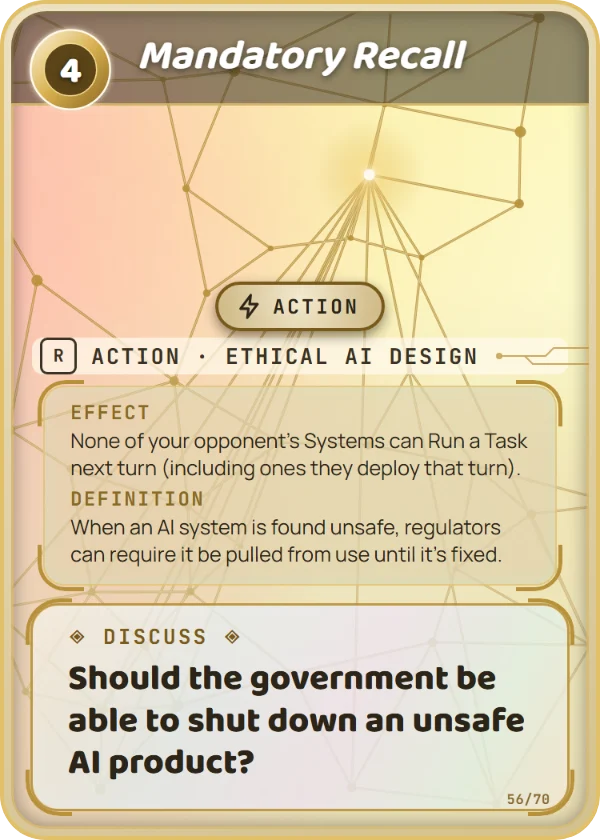
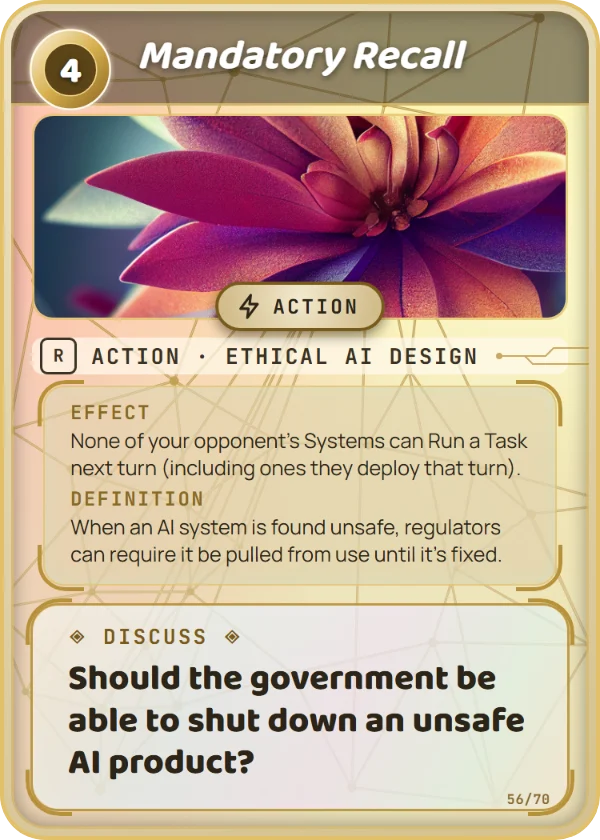
Add artwork to cards 56-70; every card now has art
Mandatory Recall, Informed Consent, Red Teaming, Expired, AI in Daily
Life, Deepfake, Job Disruption, Environmental Footprint, Data Privacy
Trade-off, Regulation Debate, Digital Divide, Cognitive Offload, Data
Center, Obsolete, and Alignment. Rebuilt proofs and refreshed card
images for the website. The source artwork stays local in design/icons/.

Changed region(s): [[0.03, 0.1238, 0.96, 0.4024]]

diff --git a/design/frame-v2/proof-mandatory-recall-ethics.html b/design/frame-v2/proof-mandatory-recall-ethics.html
@@ -132,7 +132,7 @@
 <body><div class="stage"><div class="v2 full gold-net nostats" style="--edge:#e2c06a;--outerA:#efe5cb;--outerB:#d3c292;--body1:#f8f2e2;--body2:#e1d3ae;--head:#3a3224;--panel1:rgba(255,255,255,.72);--panel2:rgba(228,214,176,.85);--label:#8a6a22;--bracket:#b8913a;--circuit:#b8913a;--statA:#f4ead0;--statB:#cdb680;--statBorder:#7a5a1c;--ledgeA:#cdb884;--ledgeB:#a88f55;--discussBg:linear-gradient(115deg,#f4eedf 0%,#e2ecf4 32%,#efe3f6 58%,#e1f2ea 82%,#f4e7d6 100%);--discussBorder:rgba(184,145,58,.9);--discussBracket:#b8913a;--discussTag:#7a5a1c;--discussInk:#2b2418;--discussShadow:none;--ink:#2b2418;--typeInk:#3a3224;--headInk:#ffffff;--statInk:#2b2418;--typeGlass:rgba(255,250,236,.72);--iconHalo:rgba(255,255,255,.75);--art:url('../backgrounds/selected/ethics.jpg')">
   <div class="v2-body">
     <div class="v2-art"></div>
-    
+    <div class="v2-icon photo"><img src="../icons/mandatory-recall.png" alt=""></div>
     <header class="v2-head"><h2>Mandatory Recall</h2></header>
     <div class="v2-gem round"><svg viewBox="0 0 140 140" width="140" height="140" aria-hidden="true"><defs>
     <linearGradient id="gAethics" x1="0" y1="0" x2="1" y2="1"><stop offset="0" stop-color="#fff7dc"/><stop offset=".5" stop-color="#d8b04f"/><stop offset="1" stop-color="#8a631e"/></linearGradient>

diff --git a/design/frame-v2/proof-environmental-footprint-impacts.html b/design/frame-v2/proof-environmental-footprint-impacts.html
@@ -132,7 +132,7 @@
 <body><div class="stage"><div class="v2 nostats" style="--edge:#ff7c5e;--outerA:#3f0f0a;--outerB:#230604;--body1:#7c2619;--body2:#3f0f0a;--head:#380c08;--panel1:rgba(240,132,108,.42);--panel2:rgba(116,28,18,.84);--label:#ffbba6;--bracket:#ffa089;--circuit:#ff7c5e;--statA:#8e2c1c;--statB:#3c0e09;--statBorder:#ffe2d8;--ledgeA:#8a2a1b;--ledgeB:#4a120b;--discussBg:linear-gradient(115deg,#e0998a 0%,#d4a3c6 32%,#eeb08c 58%,#c697d4 82%,#e59c9e 100%);--discussBorder:rgba(255,236,228,.95);--discussBracket:#ffece4;--discussTag:#fff0ea;--discussInk:#ffffff;--discussShadow:0 2px 3px rgba(18,28,70,.75), 0 0 14px rgba(18,28,70,.35);--ink:#ffffff;--typeInk:#ffffff;--headInk:#ffffff;--statInk:#ffffff;--art:url('../backgrounds/selected/impacts.jpg')">
   <div class="v2-body">
     <div class="v2-art"></div>
-    
+    <div class="v2-icon photo"><img src="../icons/environmental-footprint.png" alt=""></div>
     <header class="v2-head"><h2>Environmental Footprint</h2></header>
     <div class="v2-gem diamond"><svg viewBox="0 0 140 140" width="140" height="140" aria-hidden="true"><defs>
     <linearGradient id="gAimpacts" x1="0" y1="0" x2="1" y2="1"><stop offset="0" stop-color="#ffc6ae"/><stop offset=".5" stop-color="#d2482c"/><stop offset="1" stop-color="#58120b"/></linearGradient>

diff --git a/design/frame-v2/proof-informed-consent-ethics.html b/design/frame-v2/proof-informed-consent-ethics.html
@@ -132,7 +132,7 @@
 <body><div class="stage"><div class="v2 tall-tray" style="--edge:#e2c06a;--outerA:#efe5cb;--outerB:#d3c292;--body1:#f8f2e2;--body2:#e1d3ae;--head:#3a3224;--panel1:rgba(255,255,255,.72);--panel2:rgba(228,214,176,.85);--label:#8a6a22;--bracket:#b8913a;--circuit:#b8913a;--statA:#f4ead0;--statB:#cdb680;--statBorder:#7a5a1c;--ledgeA:#cdb884;--ledgeB:#a88f55;--discussBg:linear-gradient(115deg,#f4eedf 0%,#e2ecf4 32%,#efe3f6 58%,#e1f2ea 82%,#f4e7d6 100%);--discussBorder:rgba(184,145,58,.9);--discussBracket:#b8913a;--discussTag:#7a5a1c;--discussInk:#2b2418;--discussShadow:none;--ink:#2b2418;--typeInk:#3a3224;--headInk:#ffffff;--statInk:#2b2418;--typeGlass:rgba(255,250,236,.72);--iconHalo:rgba(255,255,255,.75);--art:url('../backgrounds/selected/ethics.jpg')">
   <div class="v2-body">
     <div class="v2-art"></div>
-    
+    <div class="v2-icon photo"><img src="../icons/informed-consent.png" alt=""></div>
     <header class="v2-head"><h2>Informed Consent</h2></header>
     <div class="v2-gem diamond"><svg viewBox="0 0 140 140" width="140" height="140" aria-hidden="true"><defs>
     <linearGradient id="gAethics" x1="0" y1="0" x2="1" y2="1"><stop offset="0" stop-color="#fff7dc"/><stop offset=".5" stop-color="#d8b04f"/><stop offset="1" stop-color="#8a631e"/></linearGradient>

diff --git a/design/frame-v2/proof-data-privacy-trade-off-impacts.html b/design/frame-v2/proof-data-privacy-trade-off-impacts.html
@@ -132,7 +132,7 @@
 <body><div class="stage"><div class="v2" style="--edge:#ff7c5e;--outerA:#3f0f0a;--outerB:#230604;--body1:#7c2619;--body2:#3f0f0a;--head:#380c08;--panel1:rgba(240,132,108,.42);--panel2:rgba(116,28,18,.84);--label:#ffbba6;--bracket:#ffa089;--circuit:#ff7c5e;--statA:#8e2c1c;--statB:#3c0e09;--statBorder:#ffe2d8;--ledgeA:#8a2a1b;--ledgeB:#4a120b;--discussBg:linear-gradient(115deg,#e0998a 0%,#d4a3c6 32%,#eeb08c 58%,#c697d4 82%,#e59c9e 100%);--discussBorder:rgba(255,236,228,.95);--discussBracket:#ffece4;--discussTag:#fff0ea;--discussInk:#ffffff;--discussShadow:0 2px 3px rgba(18,28,70,.75), 0 0 14px rgba(18,28,70,.35);--ink:#ffffff;--typeInk:#ffffff;--headInk:#ffffff;--statInk:#ffffff;--art:url('../backgrounds/selected/impacts.jpg')">
   <div class="v2-body">
     <div class="v2-art"></div>
-    
+    <div class="v2-icon photo"><img src="../icons/data-privacy-trade-off.png" alt=""></div>
     <header class="v2-head"><h2>Data Privacy Trade-off</h2></header>
     <div class="v2-gem diamond"><svg viewBox="0 0 140 140" width="140" height="140" aria-hidden="true"><defs>
     <linearGradient id="gAimpacts" x1="0" y1="0" x2="1" y2="1"><stop offset="0" stop-color="#ffc6ae"/><stop offset=".5" stop-color="#d2482c"/><stop offset="1" stop-color="#58120b"/></linearGradient>

diff --git a/design/frame-v2/proof-cognitive-offload-impacts.html b/design/frame-v2/proof-cognitive-offload-impacts.html
@@ -132,7 +132,7 @@
 <body><div class="stage"><div class="v2 nostats" style="--edge:#ff7c5e;--outerA:#3f0f0a;--outerB:#230604;--body1:#7c2619;--body2:#3f0f0a;--head:#380c08;--panel1:rgba(240,132,108,.42);--panel2:rgba(116,28,18,.84);--label:#ffbba6;--bracket:#ffa089;--circuit:#ff7c5e;--statA:#8e2c1c;--statB:#3c0e09;--statBorder:#ffe2d8;--ledgeA:#8a2a1b;--ledgeB:#4a120b;--discussBg:linear-gradient(115deg,#e0998a 0%,#d4a3c6 32%,#eeb08c 58%,#c697d4 82%,#e59c9e 100%);--discussBorder:rgba(255,236,228,.95);--discussBracket:#ffece4;--discussTag:#fff0ea;--discussInk:#ffffff;--discussShadow:0 2px 3px rgba(18,28,70,.75), 0 0 14px rgba(18,28,70,.35);--ink:#ffffff;--typeInk:#ffffff;--headInk:#ffffff;--statInk:#ffffff;--art:url('../backgrounds/selected/impacts.jpg')">
   <div class="v2-body">
     <div class="v2-art"></div>
-    
+    <div class="v2-icon photo"><img src="../icons/cognitive-offload.png" alt=""></div>
     <header class="v2-head"><h2>Cognitive Offload</h2></header>
     <div class="v2-gem diamond"><svg viewBox="0 0 140 140" width="140" height="140" aria-hidden="true"><defs>
     <linearGradient id="gAimpacts" x1="0" y1="0" x2="1" y2="1"><stop offset="0" stop-color="#ffc6ae"/><stop offset=".5" stop-color="#d2482c"/><stop offset="1" stop-color="#58120b"/></linearGradient>

diff --git a/design/frame-v2/proof-regulation-debate-impacts.html b/design/frame-v2/proof-regulation-debate-impacts.html
@@ -132,7 +132,7 @@
 <body><div class="stage"><div class="v2 nostats" style="--edge:#ff7c5e;--outerA:#3f0f0a;--outerB:#230604;--body1:#7c2619;--body2:#3f0f0a;--head:#380c08;--panel1:rgba(240,132,108,.42);--panel2:rgba(116,28,18,.84);--label:#ffbba6;--bracket:#ffa089;--circuit:#ff7c5e;--statA:#8e2c1c;--statB:#3c0e09;--statBorder:#ffe2d8;--ledgeA:#8a2a1b;--ledgeB:#4a120b;--discussBg:linear-gradient(115deg,#e0998a 0%,#d4a3c6 32%,#eeb08c 58%,#c697d4 82%,#e59c9e 100%);--discussBorder:rgba(255,236,228,.95);--discussBracket:#ffece4;--discussTag:#fff0ea;--discussInk:#ffffff;--discussShadow:0 2px 3px rgba(18,28,70,.75), 0 0 14px rgba(18,28,70,.35);--ink:#ffffff;--typeInk:#ffffff;--headInk:#ffffff;--statInk:#ffffff;--art:url('../backgrounds/selected/impacts.jpg')">
   <div class="v2-body">
     <div class="v2-art"></div>
-    
+    <div class="v2-icon photo"><img src="../icons/regulation-debate.png" alt=""></div>
     <header class="v2-head"><h2>Regulation Debate</h2></header>
     <div class="v2-gem diamond"><svg viewBox="0 0 140 140" width="140" height="140" aria-hidden="true"><defs>
     <linearGradient id="gAimpacts" x1="0" y1="0" x2="1" y2="1"><stop offset="0" stop-color="#ffc6ae"/><stop offset=".5" stop-color="#d2482c"/><stop offset="1" stop-color="#58120b"/></linearGradient>

diff --git a/design/frame-v2/proof-digital-divide-impacts.html b/design/frame-v2/proof-digital-divide-impacts.html
@@ -132,7 +132,7 @@
 <body><div class="stage"><div class="v2 full tall-tray" style="--edge:#ff7c5e;--outerA:#3f0f0a;--outerB:#230604;--body1:#7c2619;--body2:#3f0f0a;--head:#380c08;--panel1:rgba(240,132,108,.42);--panel2:rgba(116,28,18,.84);--label:#ffbba6;--bracket:#ffa089;--circuit:#ff7c5e;--statA:#8e2c1c;--statB:#3c0e09;--statBorder:#ffe2d8;--ledgeA:#8a2a1b;--ledgeB:#4a120b;--discussBg:linear-gradient(115deg,#e0998a 0%,#d4a3c6 32%,#eeb08c 58%,#c697d4 82%,#e59c9e 100%);--discussBorder:rgba(255,236,228,.95);--discussBracket:#ffece4;--discussTag:#fff0ea;--discussInk:#ffffff;--discussShadow:0 2px 3px rgba(18,28,70,.75), 0 0 14px rgba(18,28,70,.35);--ink:#ffffff;--typeInk:#ffffff;--headInk:#ffffff;--statInk:#ffffff;--art:url('../backgrounds/selected/impacts.jpg')">
   <div class="v2-body">
     <div class="v2-art"></div>
-    
+    <div class="v2-icon photo"><img src="../icons/digital-divide.png" alt=""></div>
     <header class="v2-head"><h2>Digital Divide</h2></header>
     <div class="v2-gem round"><svg viewBox="0 0 140 140" width="140" height="140" aria-hidden="true"><defs>
     <linearGradient id="gAimpacts" x1="0" y1="0" x2="1" y2="1"><stop offset="0" stop-color="#ffc6ae"/><stop offset=".5" stop-color="#d2482c"/><stop offset="1" stop-color="#58120b"/></linearGradient>

diff --git a/design/frame-v2/proof-job-disruption-impacts.html b/design/frame-v2/proof-job-disruption-impacts.html
@@ -132,7 +132,7 @@
 <body><div class="stage"><div class="v2 nostats" style="--edge:#ff7c5e;--outerA:#3f0f0a;--outerB:#230604;--body1:#7c2619;--body2:#3f0f0a;--head:#380c08;--panel1:rgba(240,132,108,.42);--panel2:rgba(116,28,18,.84);--label:#ffbba6;--bracket:#ffa089;--circuit:#ff7c5e;--statA:#8e2c1c;--statB:#3c0e09;--statBorder:#ffe2d8;--ledgeA:#8a2a1b;--ledgeB:#4a120b;--discussBg:linear-gradient(115deg,#e0998a 0%,#d4a3c6 32%,#eeb08c 58%,#c697d4 82%,#e59c9e 100%);--discussBorder:rgba(255,236,228,.95);--discussBracket:#ffece4;--discussTag:#fff0ea;--discussInk:#ffffff;--discussShadow:0 2px 3px rgba(18,28,70,.75), 0 0 14px rgba(18,28,70,.35);--ink:#ffffff;--typeInk:#ffffff;--headInk:#ffffff;--statInk:#ffffff;--art:url('../backgrounds/selected/impacts.jpg')">
   <div class="v2-body">
     <div class="v2-art"></div>
-    
+    <div class="v2-icon photo"><img src="../icons/job-disruption.png" alt=""></div>
     <header class="v2-head"><h2>Job Disruption</h2></header>
     <div class="v2-gem diamond"><svg viewBox="0 0 140 140" width="140" height="140" aria-hidden="true"><defs>
     <linearGradient id="gAimpacts" x1="0" y1="0" x2="1" y2="1"><stop offset="0" stop-color="#ffc6ae"/><stop offset=".5" stop-color="#d2482c"/><stop offset="1" stop-color="#58120b"/></linearGradient>

diff --git a/design/frame-v2/proof-expired-ethics.html b/design/frame-v2/proof-expired-ethics.html
@@ -132,7 +132,7 @@
 <body><div class="stage"><div class="v2 nostats" style="--edge:#e2c06a;--outerA:#efe5cb;--outerB:#d3c292;--body1:#f8f2e2;--body2:#e1d3ae;--head:#3a3224;--panel1:rgba(255,255,255,.72);--panel2:rgba(228,214,176,.85);--label:#8a6a22;--bracket:#b8913a;--circuit:#b8913a;--statA:#f4ead0;--statB:#cdb680;--statBorder:#7a5a1c;--ledgeA:#cdb884;--ledgeB:#a88f55;--discussBg:linear-gradient(115deg,#f4eedf 0%,#e2ecf4 32%,#efe3f6 58%,#e1f2ea 82%,#f4e7d6 100%);--discussBorder:rgba(184,145,58,.9);--discussBracket:#b8913a;--discussTag:#7a5a1c;--discussInk:#2b2418;--discussShadow:none;--ink:#2b2418;--typeInk:#3a3224;--headInk:#ffffff;--statInk:#2b2418;--typeGlass:rgba(255,250,236,.72);--iconHalo:rgba(255,255,255,.75);--art:url('../backgrounds/selected/ethics.jpg')">
   <div class="v2-body">
     <div class="v2-art"></div>
-    
+    <div class="v2-icon photo"><img src="../icons/expired.png" alt=""></div>
     <header class="v2-head"><h2>Expired</h2></header>
     <div class="v2-gem diamond"><svg viewBox="0 0 140 140" width="140" height="140" aria-hidden="true"><defs>
     <linearGradient id="gAethics" x1="0" y1="0" x2="1" y2="1"><stop offset="0" stop-color="#fff7dc"/><stop offset=".5" stop-color="#d8b04f"/><stop offset="1" stop-color="#8a631e"/></linearGradient>

diff --git a/design/frame-v2/proof-red-teaming-ethics.html b/design/frame-v2/proof-red-teaming-ethics.html
@@ -132,7 +132,7 @@
 <body><div class="stage"><div class="v2" style="--edge:#e2c06a;--outerA:#efe5cb;--outerB:#d3c292;--body1:#f8f2e2;--body2:#e1d3ae;--head:#3a3224;--panel1:rgba(255,255,255,.72);--panel2:rgba(228,214,176,.85);--label:#8a6a22;--bracket:#b8913a;--circuit:#b8913a;--statA:#f4ead0;--statB:#cdb680;--statBorder:#7a5a1c;--ledgeA:#cdb884;--ledgeB:#a88f55;--discussBg:linear-gradient(115deg,#f4eedf 0%,#e2ecf4 32%,#efe3f6 58%,#e1f2ea 82%,#f4e7d6 100%);--discussBorder:rgba(184,145,58,.9);--discussBracket:#b8913a;--discussTag:#7a5a1c;--discussInk:#2b2418;--discussShadow:none;--ink:#2b2418;--typeInk:#3a3224;--headInk:#ffffff;--statInk:#2b2418;--typeGlass:rgba(255,250,236,.72);--iconHalo:rgba(255,255,255,.75);--art:url('../backgrounds/selected/ethics.jpg')">
   <div class="v2-body">
     <div class="v2-art"></div>
-    
+    <div class="v2-icon photo"><img src="../icons/red-teaming.png" alt=""></div>
     <header class="v2-head"><h2>Red Teaming</h2></header>
     <div class="v2-gem diamond"><svg viewBox="0 0 140 140" width="140" height="140" aria-hidden="true"><defs>
     <linearGradient id="gAethics" x1="0" y1="0" x2="1" y2="1"><stop offset="0" stop-color="#fff7dc"/><stop offset=".5" stop-color="#d8b04f"/><stop offset="1" stop-color="#8a631e"/></linearGradient>

diff --git a/design/frame-v2/proof-ai-in-daily-life-impacts.html b/design/frame-v2/proof-ai-in-daily-life-impacts.html
@@ -132,7 +132,7 @@
 <body><div class="stage"><div class="v2" style="--edge:#ff7c5e;--outerA:#3f0f0a;--outerB:#230604;--body1:#7c2619;--body2:#3f0f0a;--head:#380c08;--panel1:rgba(240,132,108,.42);--panel2:rgba(116,28,18,.84);--label:#ffbba6;--bracket:#ffa089;--circuit:#ff7c5e;--statA:#8e2c1c;--statB:#3c0e09;--statBorder:#ffe2d8;--ledgeA:#8a2a1b;--ledgeB:#4a120b;--discussBg:linear-gradient(115deg,#e0998a 0%,#d4a3c6 32%,#eeb08c 58%,#c697d4 82%,#e59c9e 100%);--discussBorder:rgba(255,236,228,.95);--discussBracket:#ffece4;--discussTag:#fff0ea;--discussInk:#ffffff;--discussShadow:0 2px 3px rgba(18,28,70,.75), 0 0 14px rgba(18,28,70,.35);--ink:#ffffff;--typeInk:#ffffff;--headInk:#ffffff;--statInk:#ffffff;--art:url('../backgrounds/selected/impacts.jpg')">
   <div class="v2-body">
     <div class="v2-art"></div>
-    
+    <div class="v2-icon photo"><img src="../icons/ai-in-daily-life.png" alt=""></div>
     <header class="v2-head"><h2>AI in Daily Life</h2></header>
     <div class="v2-gem diamond"><svg viewBox="0 0 140 140" width="140" height="140" aria-hidden="true"><defs>
     <linearGradient id="gAimpacts" x1="0" y1="0" x2="1" y2="1"><stop offset="0" stop-color="#ffc6ae"/><stop offset=".5" stop-color="#d2482c"/><stop offset="1" stop-color="#58120b"/></linearGradient>

diff --git a/design/frame-v2/proof-data-center-impacts.html b/design/frame-v2/proof-data-center-impacts.html
@@ -132,7 +132,7 @@
 <body><div class="stage"><div class="v2 tall-tray" style="--edge:#ff7c5e;--outerA:#3f0f0a;--outerB:#230604;--body1:#7c2619;--body2:#3f0f0a;--head:#380c08;--panel1:rgba(240,132,108,.42);--panel2:rgba(116,28,18,.84);--label:#ffbba6;--bracket:#ffa089;--circuit:#ff7c5e;--statA:#8e2c1c;--statB:#3c0e09;--statBorder:#ffe2d8;--ledgeA:#8a2a1b;--ledgeB:#4a120b;--discussBg:linear-gradient(115deg,#e0998a 0%,#d4a3c6 32%,#eeb08c 58%,#c697d4 82%,#e59c9e 100%);--discussBorder:rgba(255,236,228,.95);--discussBracket:#ffece4;--discussTag:#fff0ea;--discussInk:#ffffff;--discussShadow:0 2px 3px rgba(18,28,70,.75), 0 0 14px rgba(18,28,70,.35);--ink:#ffffff;--typeInk:#ffffff;--headInk:#ffffff;--statInk:#ffffff;--art:url('../backgrounds/selected/impacts.jpg')">
   <div class="v2-body">
     <div class="v2-art"></div>
-    
+    <div class="v2-icon photo"><img src="../icons/data-center.png" alt=""></div>
     <header class="v2-head"><h2>Data Center</h2></header>
     <div class="v2-gem diamond"><svg viewBox="0 0 140 140" width="140" height="140" aria-hidden="true"><defs>
     <linearGradient id="gAimpacts" x1="0" y1="0" x2="1" y2="1"><stop offset="0" stop-color="#ffc6ae"/><stop offset=".5" stop-color="#d2482c"/><stop offset="1" stop-color="#58120b"/></linearGradient>
